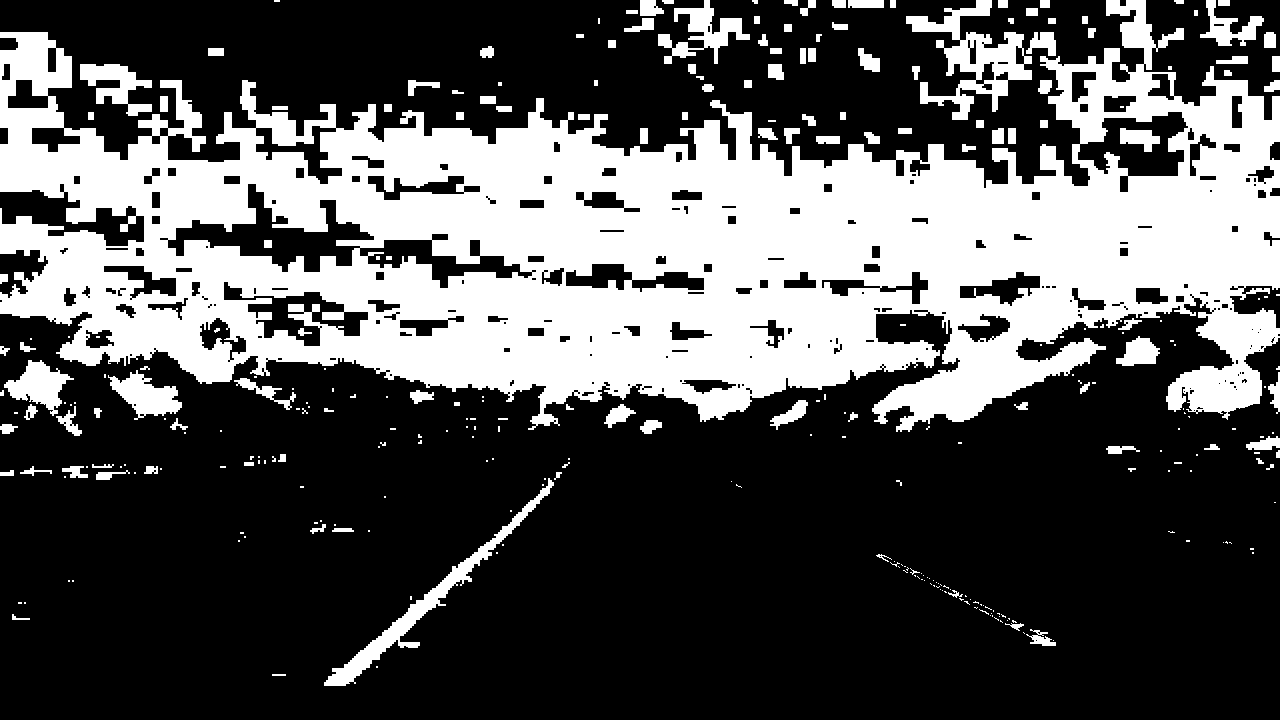
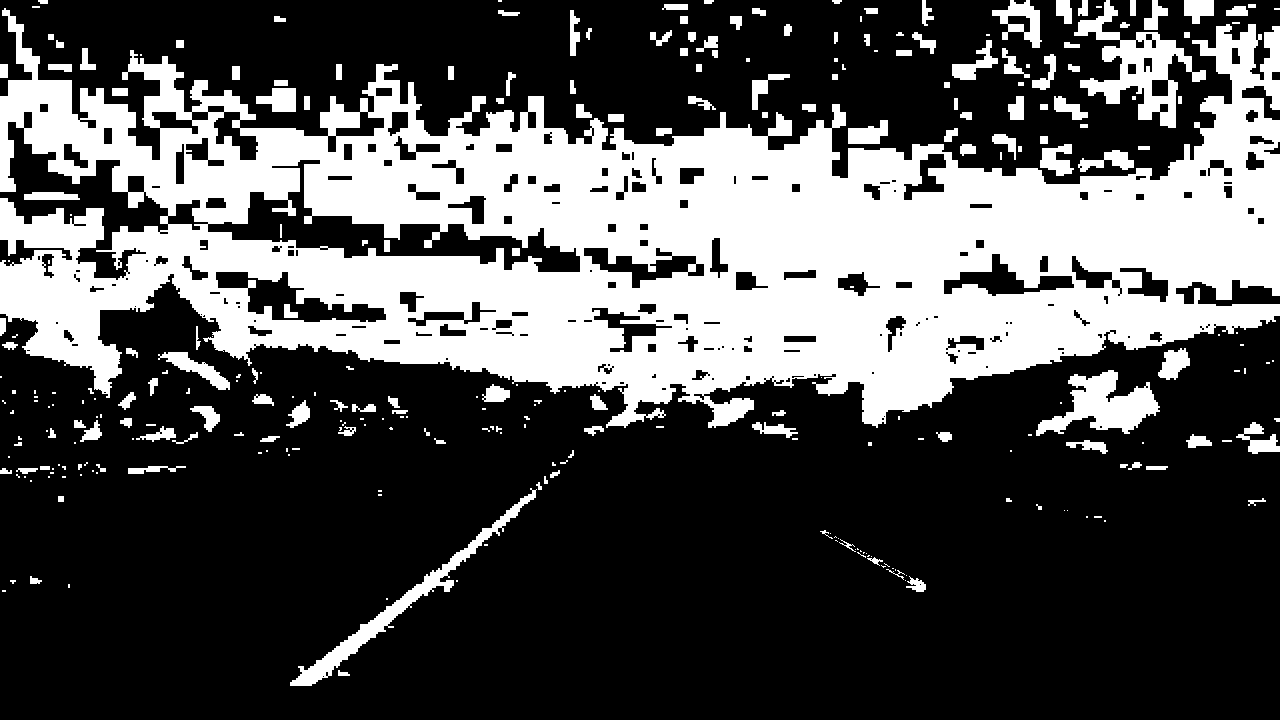
skip blank lines

diff --git a/main.py b/main.py
@@ -297,8 +297,9 @@ def find_window_centroids(image, window_width, window_height, margin):
         r_max_index = int(min(r_center + offset + margin, warped.shape[1]))
         r_center = np.argmax(conv_signal[r_min_index:r_max_index]) + r_min_index - offset
         # Add what we found for that layer
-        window_centroids.append((l_center, r_center))
 
+        window_centroids.append((l_center, r_center))
+    #print(window_centroids)
     return window_centroids
 
 
@@ -307,11 +308,14 @@ def find_window_centroids(image, window_width, window_height, margin):
 def find_line_peaks(img):
     warped = img
 
-    window_width = 50
+    window_width = 30
     window_height = 50  # Break image into 9 vertical layers since image height is 720
     margin = 10  # How much to slide left and right for searching
 
     window_centroids = find_window_centroids(warped, window_width, window_height, margin)
+    #print(window_centroids)
+
+    measure_curvate(img, window_centroids)
 
     # If we found any window centers
     if len(window_centroids) > 0:
@@ -320,19 +324,34 @@ def find_line_peaks(img):
         l_points = np.zeros_like(warped)
         r_points = np.zeros_like(warped)
 
+        offset_x = int(window_width/2)
+        offset_y = int(window_height/2)
+
         # Go through each level and draw the windows
         for level in range(0, len(window_centroids)):
             # Window_mask is a function to draw window areas
-            l_mask = window_mask(window_width, window_height, warped, window_centroids[level][0], level)
-            r_mask = window_mask(window_width, window_height, warped, window_centroids[level][1], level)
-            # Add graphic points from window mask here to total pixels found
-            l_points[(l_points == 255) | ((l_mask == 1))] = 255
-            r_points[(r_points == 255) | ((r_mask == 1))] = 255
+            h_pos = int(window_height*level - offset_y)
+
+
+            box_l = img[h_pos-offset_y:h_pos+offset_y,
+                    window_centroids[level][0]-offset_x:window_centroids[level][0]+offset_x]
+            box_r = img[h_pos - offset_y:h_pos + offset_y,
+                    window_centroids[level][1] - offset_x:window_centroids[level][1] + offset_x]
+
+            #skip points if no info
+            if ( box_l.mean() > 0 ):
+                l_mask = window_mask(window_width, window_height, warped, window_centroids[level][0], level)
+                l_points[(l_points == 255) | ((l_mask == 1))] = 255
+            if (box_r.mean() > 0):
+                r_mask = window_mask(window_width, window_height, warped, window_centroids[level][1], level)
+                r_points[(r_points == 255) | ((r_mask == 1))] = 255
+
+
 
         # Draw the results
         #template = np.array(r_points + l_points, np.uint8)  # add both left and right window pixels together
 
-        zero_channel = np.zeros_like(l_points)  # create a zero color channle
+        zero_channel = np.zeros_like(r_points)  # create a zero color channle
         right_line = np.array(cv2.merge((zero_channel, r_points, zero_channel)), np.uint8)  # make window pixels green
         left_line = np.array(cv2.merge((l_points, zero_channel, zero_channel)), np.uint8)  # make window pixels green
         warpage = np.array(cv2.merge((warped, warped, warped)),
@@ -351,8 +370,6 @@ def find_line_peaks(img):
     return output
 
 
-def draw_lines(img, lines):
-    pass
 
 
 
@@ -390,6 +407,12 @@ def image_preprocesor(img):
     out = dir_threshold(out, sobel_kernel=5, thresh=(0.5, 1.2))
 
     return out
+
+
+def measure_curvate(img, window_centroids):
+    pass
+
+
 
 # if True:
 #     exit()
